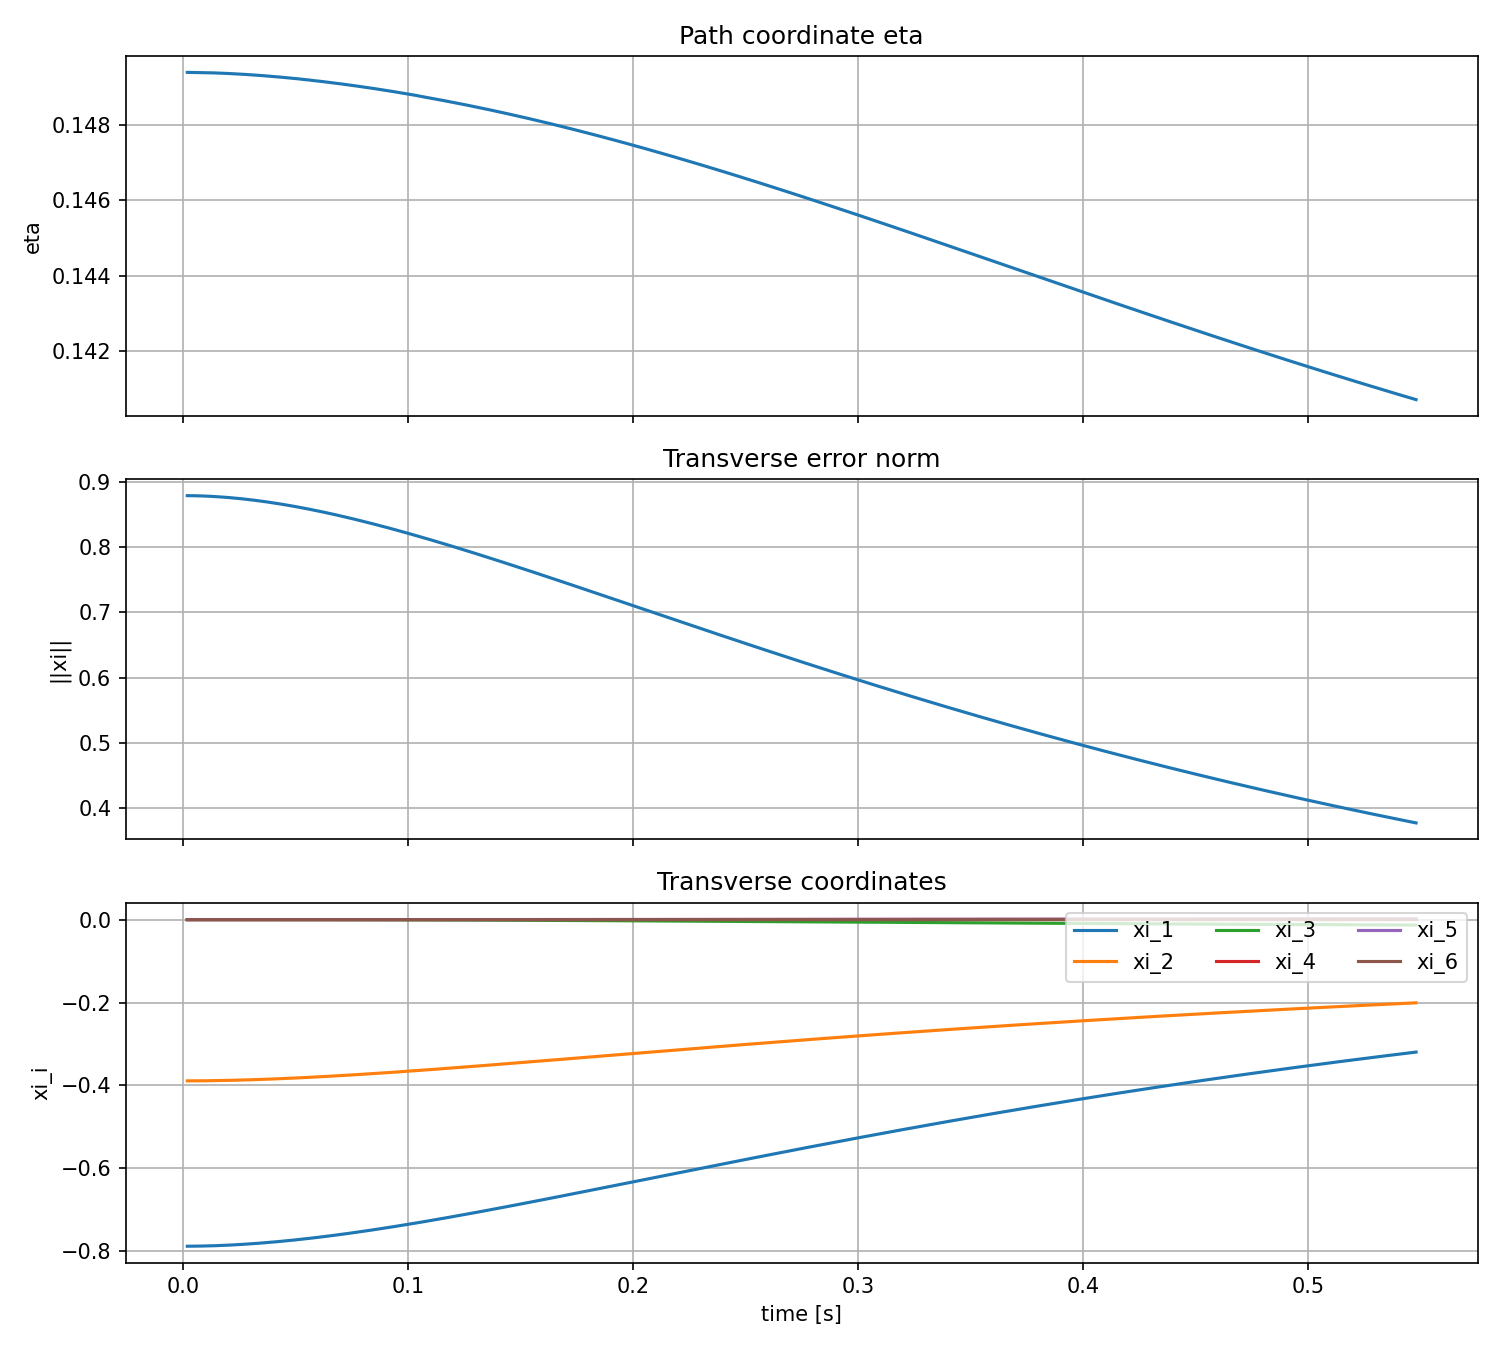
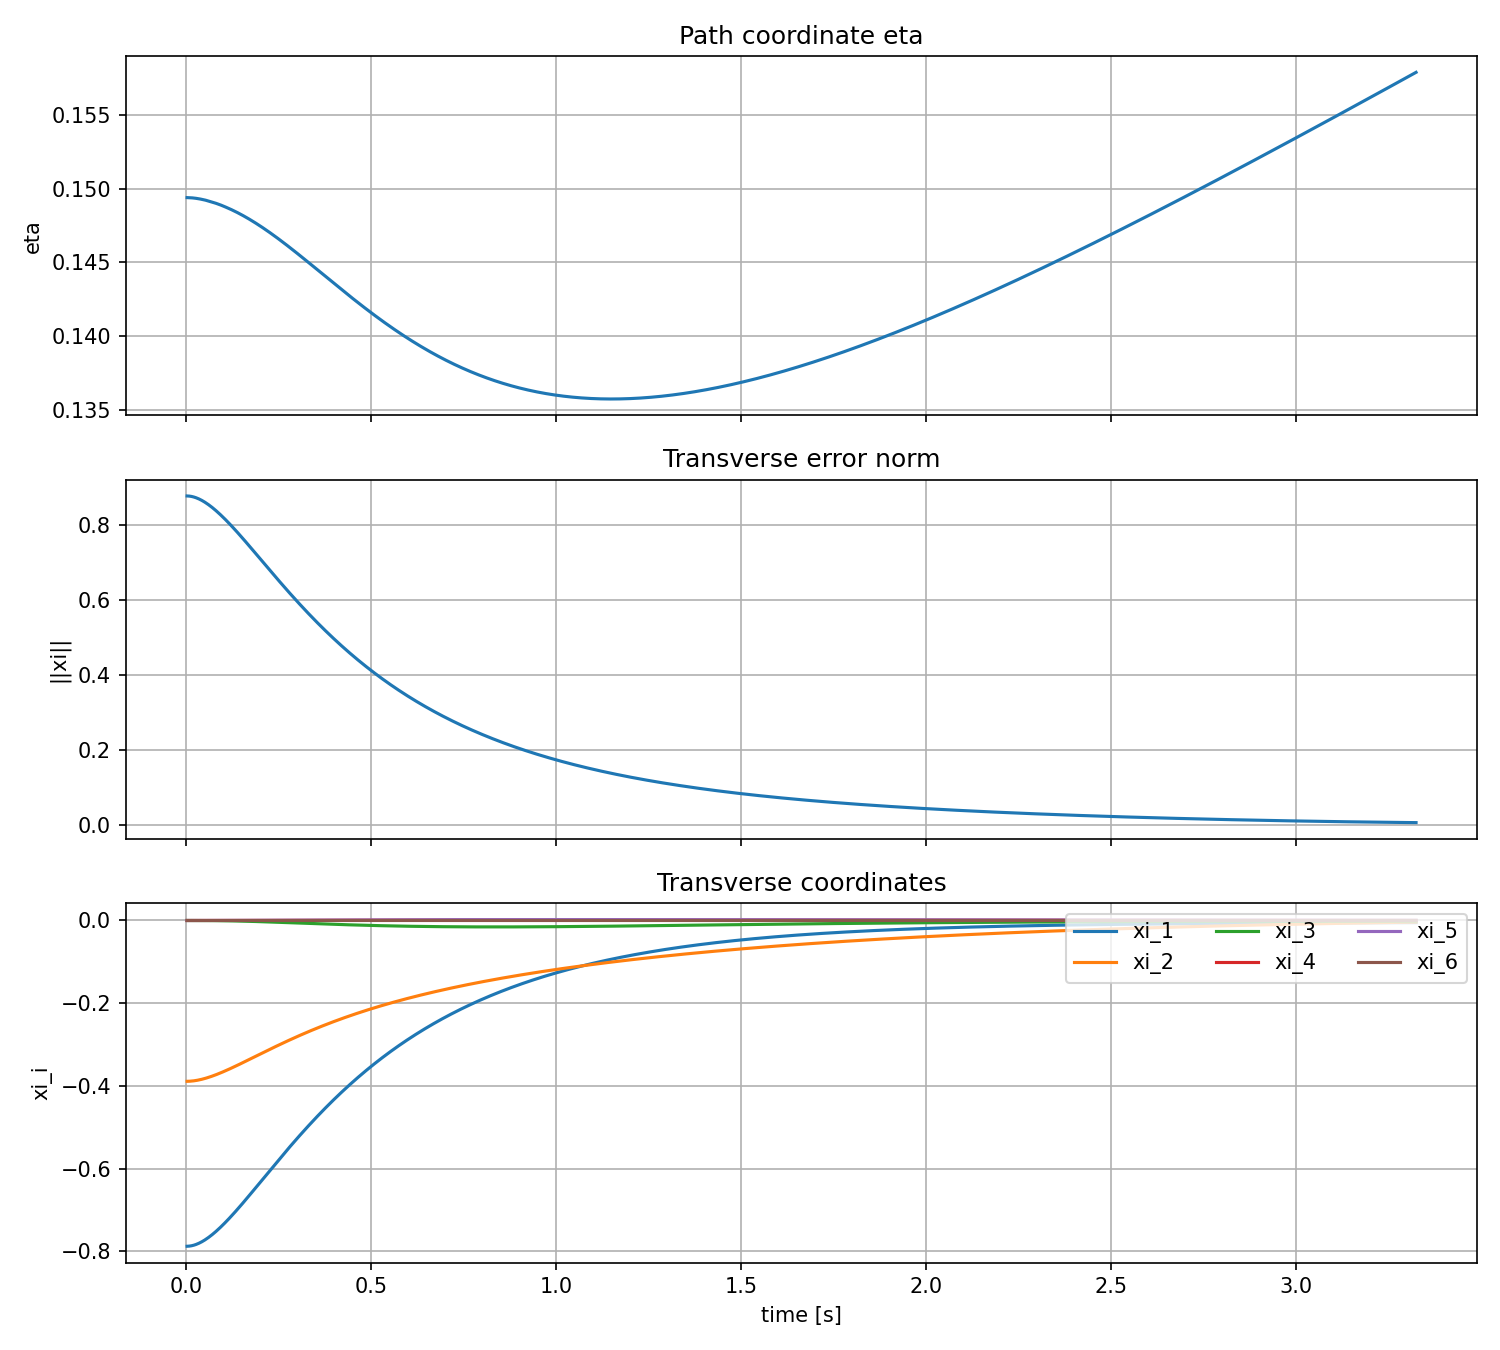
.

diff --git a/Examples/Panda/panda-emika.py b/Examples/Panda/panda-emika.py
@@ -12,6 +12,26 @@ from Manifolds.joints import wrap_angle
 from Manifolds.manifold import RiemannianManifold
 from Manifolds.product_manifold import ProductManifold
 
+# Initial config of 7 joints
+q_home = np.array([
+    0.0,
+    0.0,
+    0.0,
+    0.0,
+    0.0,
+    0.0,
+    0.0,
+])
+
+# Controller
+controller_params = {
+    "path_speed": 0.15,
+    "eta_velocity_gain": 6.0,
+    "xi_position_gain": 20.0,
+    "xi_velocity_gain": 10.0,
+    "tau_limit": np.array([87.0, 87.0, 87.0, 87.0, 12.0, 12.0, 12.0]),
+}
+
 # run: PYTHONPATH=. T_FINAL=10 SHOW_PLOT=1 mjpython Examples/Panda/panda-emika.py
 # 
 MODEL_PATH = Path.home() / "Desktop" / "Robotics" / "mujoco" / "mujoco_menagerie" / "franka_emika_panda" / "scene.xml"
@@ -29,6 +49,32 @@ def mass_matrix(model, data):
     # print("dim(mj_fullM) = ", np.shape(M))
     return M[:7, :7]
 
+# KE helpers
+def inner(M, u, v):
+    return float(u.T @ M @ v)
+
+def norm(M, u):
+    return np.sqrt(max(inner(M, u, u), 0.0))
+
+# Evaluates metric at given point
+def metric_at_base(model, data, p):
+    q_old = data.qpos.copy()
+    dq_old = data.qvel.copy()
+
+    # TODO: check if this is correct. Shouldnt M(q, q') = M(q, 0)?
+    data.qpos[:7] = p
+    data.qvel[:7] = 0.0
+    mujoco.mj_forward(model, data)
+
+    M = mass_matrix(model, data)
+
+    data.qpos[:] = q_old
+    data.qvel[:] = dq_old
+
+    mujoco.mj_forward(model, data)
+
+    return M
+
 # C(q, q')q' + grad P(q)
 def drift_forces(data):
     return data.qfrc_bias[:7].copy()
@@ -45,8 +91,7 @@ config = ProductManifold(Revolute(), Revolute(),
                                   Revolute(), Revolute(), 
                                   Revolute())
 
-# TODO: make the mujoco mass matrix compatible with my metric object and then remove these.
-# TODO: it pro
+# TODO: make these work with the exp and log functions in the ProductManifold class
 def flat_log(p, q):
     return wrap_angle(q - p)
 def flat_exp(p, v):
@@ -83,33 +128,6 @@ def gamma_prime(eta):
     dq[0] += a1 * 2.0 * np.pi * np.cos(theta)
     dq[1] += -a2 * 2.0 * np.pi * np.sin(theta)
     return dq
-########################################
-
-# Metric helpers (these 3 functions should probably be wrapped in a metric class)
-def inner(M, u, v):
-    return float(u.T @ M @ v)
-
-def norm(M, u):
-    return np.sqrt(max(inner(M, u, u), 0.0))
-
-# Evaluates metric at given point
-def metric_at_base(model, data, p):
-    q_old = data.qpos.copy()
-    dq_old = data.qvel.copy()
-
-    # TODO: check if this is correct. Shouldnt M(q, q') = M(q, 0)?
-    data.qpos[:7] = p
-    data.qvel[:7] = 0.0
-    mujoco.mj_forward(model, data)
-
-    M = mass_matrix(model, data)
-
-    data.qpos[:] = q_old
-    data.qvel[:] = dq_old
-
-    mujoco.mj_forward(model, data)
-
-    return M
 
 # TODO: this should be done with the method outlined in the SO(3) paper
 def frame(model, data, eta):
@@ -133,6 +151,8 @@ def frame(model, data, eta):
             break
     E = np.column_stack(basis)
     return p, E
+########################################
+
 
 def closest_path_coordinates(model, data, q, eta_guess=None):
     q = wrap_angle(q)
@@ -145,17 +165,17 @@ def closest_path_coordinates(model, data, q, eta_guess=None):
         return inner(M, xi, xi)
     
     eta = minimize_eta(objective, eta_guess=eta_guess)
-    
+
     p, E = frame(model, data, eta)
     M = metric_at_base(model, data, p)
     xi_full = flat_log(p, q)
 
     # Coordinates in M-orthonormal frame.
     coords = E.T @ M @ xi_full
-    eta_error_coord = coords[0]
+    _ = coords[0] # we take eta to be the distance minimizing point so ideally this is ~0
     xi_normal = coords[1:]
 
-    return eta, p, M, E, eta_error_coord, xi_normal
+    return eta, xi_normal
 
 # phi: (eta, xi) -> q
 def phi(model, data, eta, xi_normal):
@@ -206,26 +226,6 @@ def jacobian_dot_times_ydot(model, data, eta, xi_normal, ydot):
 
     return Jdot @ ydot
 
-# Initial config of 7 joints
-q_home = np.array([
-    0.0,
-    0.0,
-    0.0,
-    0.0,
-    0.0,
-    0.0,
-    0.0,
-])
-
-# Controller
-controller_params = {
-    "path_speed": 0.15,
-    "eta_velocity_gain": 6.0,
-    "xi_position_gain": 20.0,
-    "xi_velocity_gain": 10.0,
-    "tau_limit": np.array([87.0, 87.0, 87.0, 87.0, 12.0, 12.0, 12.0]),
-}
-
 def desired_eta_rate(model, data, eta):
     M = metric_at_base(model, data, gamma(eta))
     gp = gamma_prime(eta)
@@ -249,7 +249,7 @@ def computed_torque_path_controller(model, data, eta_guess):
     q = wrap_angle(data.qpos[:7].copy())
     dq = data.qvel[:7].copy()
 
-    eta, p, M, E, eta_error_coord, xi = closest_path_coordinates(
+    eta, xi = closest_path_coordinates(
         model,
         data,
         q,
@@ -292,6 +292,7 @@ def computed_torque_path_controller(model, data, eta_guess):
 
     return tau, eta, xi
 
+# Logging 
 def plot_eta_xi(history, save_path=None):
     import matplotlib
     matplotlib.use("Agg", force=True)
@@ -343,7 +344,6 @@ def plot_eta_xi(history, save_path=None):
 
     plt.close(fig)
 
-
 def timing_summary(history):
     step_time = np.array(history["step_time"])
 
@@ -357,6 +357,9 @@ def timing_summary(history):
     print(f"  mean step:   {np.mean(step_time):.6f} s")
     print(f"  median step: {np.median(step_time):.6f} s")
     print(f"  max step:    {np.max(step_time):.6f} s")
+####################
+
+
 
 # Main MuJoCo sim
 def main():
@@ -365,11 +368,11 @@ def main():
     plot_path = os.environ.get("PLOT_PATH")
     plot_path = DEFAULT_PLOT_PATH if plot_path is None else Path(plot_path)
 
+    # Load model
     model = mujoco.MjModel.from_xml_path(str(MODEL_PATH))
     data = mujoco.MjData(model)
 
-    # The menagerie Panda arm actuators are position servos. This controller
-    # computes generalized torques, so apply those through qfrc_applied instead.
+    # The chosen model has built in joint pd control, to supply my own torques set the joint PD gains to zero.
     model.actuator_gainprm[:7, :] = 0.0
     model.actuator_biasprm[:7, :] = 0.0
 
@@ -378,7 +381,7 @@ def main():
     print("numer of degrees of freedom (nv) =", model.nv)
     print("number of actuators (nq) =", model.nu)
 
-    # Initial condition near but not exactly on the path.
+    # Initial conditions
     data.qpos[:7] = q_center + np.array([0.1, 0.05, 0.05, 0.0, 0.0, 0.0, 0.0])
     data.qvel[:7] = 0.0
 
@@ -407,7 +410,6 @@ def main():
                     break
 
                 step_start = time.perf_counter()
-                print("inertia size = ", np.shape(data.qM))
                 tau, eta, xi = computed_torque_path_controller(
                     model,
                     data,
@@ -436,10 +438,6 @@ def main():
                 history["qdot"].append(data.qvel[:7].copy())
                 history["step_time"].append(step_time)
 
-                # Optional: slow to real time-ish
-                sleep_time = model.opt.timestep - step_time
-                if sleep_time > 0:
-                    time.sleep(sleep_time)
     except KeyboardInterrupt:
         print("\nInterrupted; plotting recorded eta/xi history.")
     finally: